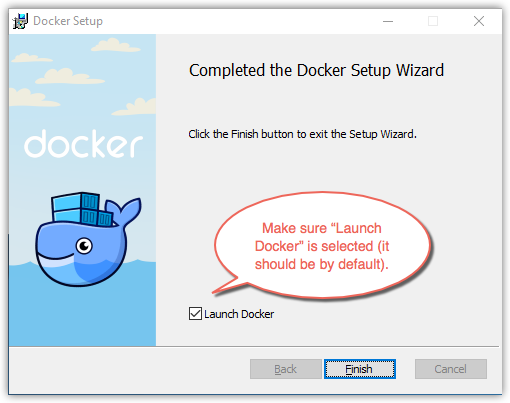
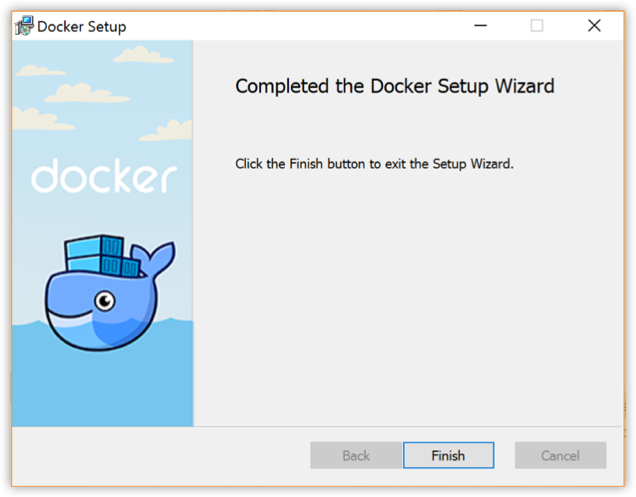
d4win doesn't start automatically w/installer in elevated mode, add d… (#4204)
* d4win doesn't start automatically w/installer in elevated mode, add docs and pix

* resized images to be smaller

* clarified finding status bar whale for install

* fixed image

* fixed link

diff --git a/docker-for-windows/install.md b/docker-for-windows/install.md
@@ -142,15 +142,26 @@ Windows containers.
 
 ## Start Docker for Windows
 
-When the installation finishes, Docker starts automatically.
+Docker will not start automatically. To start it, search for Docker, select the
+app in the search results, and click it (or hit Return).
 
-The whale in the status bar indicates that Docker is running, and accessible from a terminal.
+![search for Docker app](/docker-for-windows/images/docker-app-search.png)
 
-If you just installed the app, you also get a popup success message with suggested next steps, and a link to this documentation.
+When the whale in the status bar stays steady, Docker is up-and-running, and
+accessible from any terminal window.
+
+![whale on taskbar](/docker-for-windows/images/whale-taskbar-circle.png)
+
+If the whale is hidden in the Notifications area, click the up arrow on the
+taskbar to show it. To learn more, see [Docker Settings](/docker-for-windows/index.md#docker-settings).
+
+If you just installed the app, you also get a popup success message with
+suggested next steps, and a link to this documentation.
 
 ![Startup information](/docker-for-windows/images/win-install-success-popup-cloud.png)
 
-When initialization is complete, select **About Docker** from the notification area icon to verify that you have the latest version.
+When initialization is complete, select **About Docker** from the notification
+area icon to verify that you have the latest version.
 
 Congratulations! You are up and running with Docker for Windows.
 
